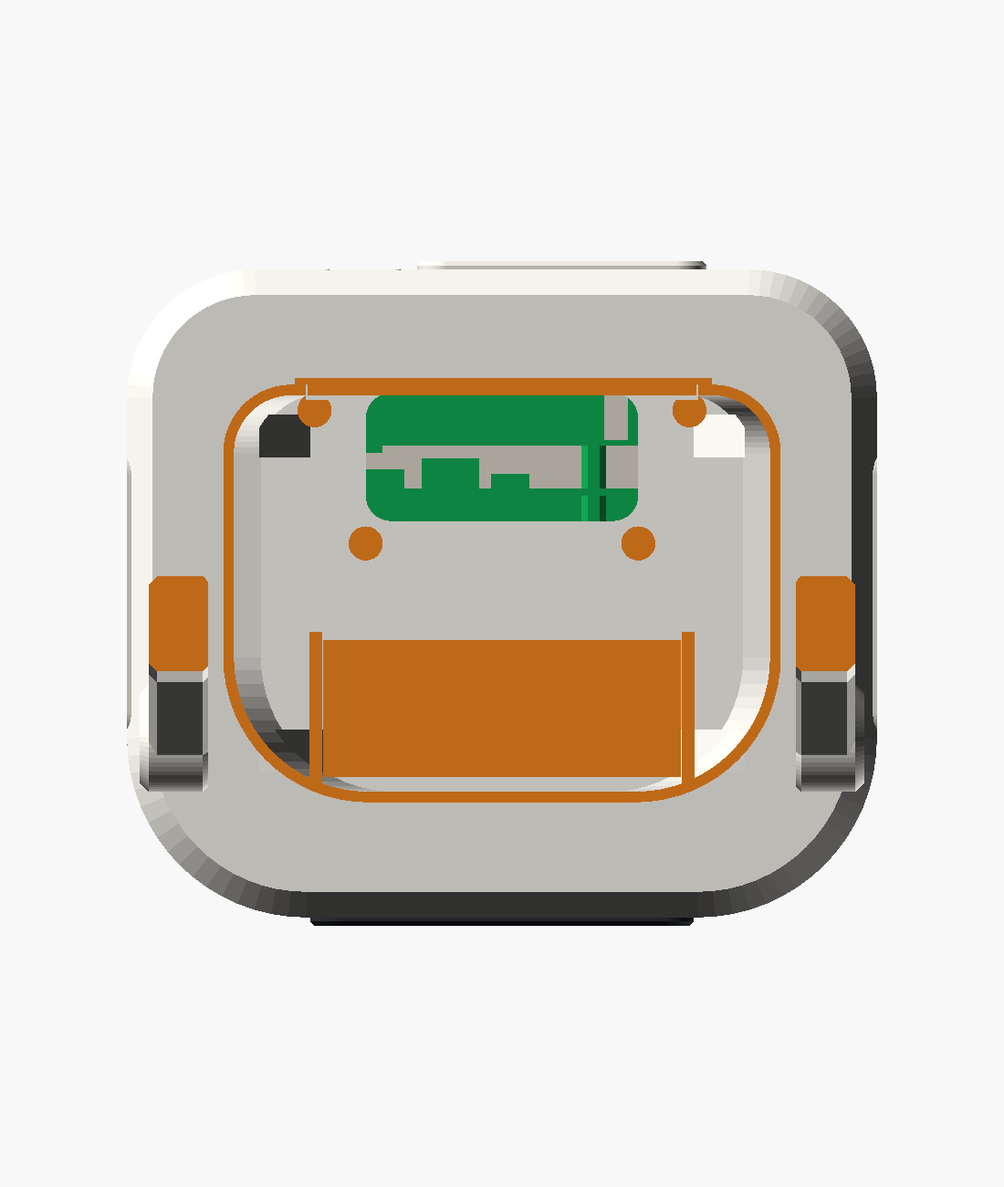
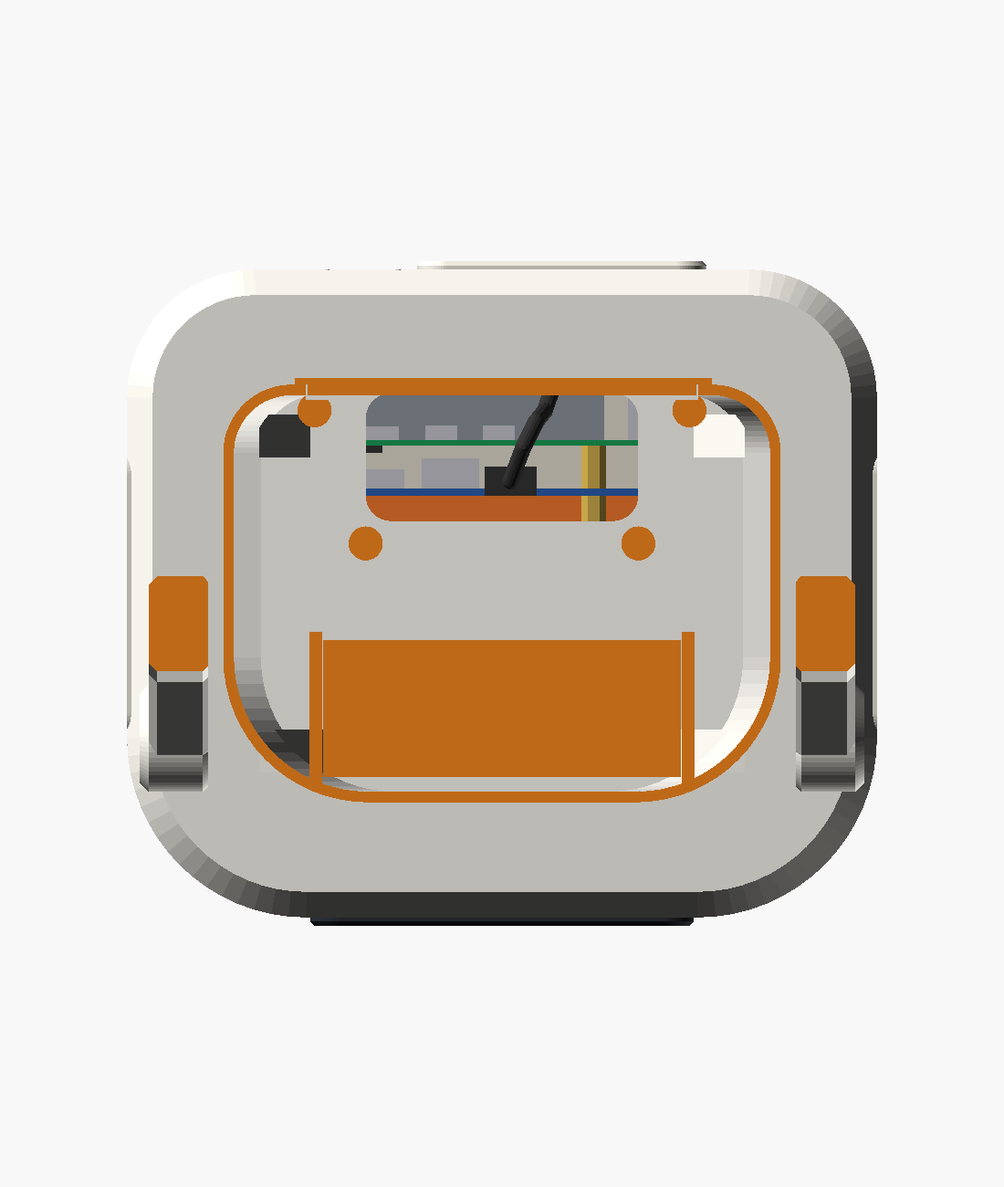
Enclosure v2: model the charging cable into the UPS HAT (E)'s USB-C
The charger reaches the UPS's USB-C (never the Pi's) through a USB-C
extension: plug in the UPS's port, cable up through the cable hole and
back down behind the cooler, socket held behind the rear plate's slot.
That path is now in the model and checked; no printed part changes.

- littlebot_v2.scad: charge_cable() (plug + routed cable) from
  charge_port() to the socket; stack parts coloured individually; new
  "charging" preview with labels for the UPS's and the Pi's USB-C
- checks.scad / run_checks.sh: charge_cable_clear (70 checks, all pass)
- images/charging.png (new); section and back/side views re-rendered
- assembly video: own step "Charging cable into the UPS" with on-screen
  labels for both USB-C ports
- README / POWER.md: which port, the extension to buy, assembly step

Claude-Session: https://claude.ai/code/session_016yvSTZP27xtsgsiUtZidog

Changed region(s): [[0.34, 0.3077, 0.6491, 0.4615]]

diff --git a/hardware/enclosure_v2/assembly_video/index.html b/hardware/enclosure_v2/assembly_video/index.html
@@ -12,11 +12,15 @@
   #title { color: #1d2430; font-size: 25px; font-weight: bold; margin-top: 3px; }
   #detail { color: #3b4452; font-size: 16px; line-height: 1.4; margin-top: 6px; }
   #bar { position: absolute; left: 0; bottom: 0; height: 5px; background: #c0632b; }
+  #labels, #lines { position: absolute; inset: 0; }
+  .lab { position: absolute; transform: translate(-50%, -100%); background: rgba(255,255,255,.95); border: 2.5px solid; border-radius: 10px;
+         padding: 5px 12px 6px; font-size: 17px; font-weight: bold; white-space: nowrap; box-shadow: 0 3px 12px rgba(30,40,60,.16); }
 </style></head>
 <body>
 <div id="bg"></div>
 <canvas id="c" width="1280" height="720"></canvas>
 <div id="brand"><b>LittleBot v2</b> &middot; how it goes together</div>
+<div id="labels"><svg id="lines" width="1280" height="720"></svg><div id="labs"></div></div>
 <div id="cap"><div id="num"></div><div id="title"></div><div id="detail"></div></div>
 <div id="bar"></div>
 <script>
@@ -70,7 +74,7 @@ async function loadAll() {
 
 // ---------- the story ----------
 const TORSO_G = ['torso','torso_back','coupler','ring_gear','pinion','servo_frame','head_servo','arm_servo_left','arm_servo_right','speaker','mic'];
-const FLOOR_G = ['base_floor','ups_plate','ups_cells','ups_board','ups_standoffs','pi','pi_ports','cooler','pca9685','usbc_socket'];
+const FLOOR_G = ['base_floor','ups_plate','ups_cells','ups_board','ups_standoffs','pi','pi_ports','cooler','pca9685','usbc_socket','charge_cable'];
 const HEAD_G = ['head','head_back','visor','ear_left','ear_right','camera_pod','camera_bracket','camera_board','screen_glass','screen_pcb','screen_clamp'];
 const ROBOT = { t: [0, 76, 190], az: -28, el: 16, d: 980 };
 // each step: parts it installs and where they come from (offset, mm); camera; see-through shells
@@ -91,13 +95,18 @@ const STEPS = [
   { title: 'Pi + UPS onto the mounting wall', detail: 'Pi and cooler onto the UPS as Waveshare shows, cells in V1\u2013V4 order. Swap the UPS\u2019s 4 bottom screws for M3 \u00d7 12 and screw it to the wall through the clear plate, ports up.',
     add: { ups_plate: [0, 90, 0], ups_cells: [0, 90, 0], ups_board: [0, 90, 0], ups_standoffs: [0, 90, 0], pi: [0, 90, 0], pi_ports: [0, 90, 0], cooler: [0, 90, 0] },
     view: { t: [0, 95, -85], az: 140, el: 28, d: 520 } },
-  { title: 'Servo board and charging socket', detail: 'PCA9685 onto its standoffs (4 \u00d7 M2.5 \u00d7 6). USB-C extension into the UPS, its socket zip-tied into the holder. Plug in the HDMI and screen-power cables and the jumpers.',
-    add: { pca9685: [0, 0, 60], usbc_socket: [0, 0, 60] }, view: { t: [0, 80, -90], az: -30, el: 38, d: 540 } },
+  { title: 'Servo board', detail: 'PCA9685 onto its standoffs (4 \u00d7 M2.5 \u00d7 6). Plug in the HDMI and screen-power cables and the jumper wires.',
+    add: { pca9685: [0, 0, 60] }, view: { t: [0, 80, -90], az: -30, el: 38, d: 540 } },
+  { title: 'Charging cable into the UPS', detail: 'USB-C extension: its plug goes into the UPS\u2019s USB-C (on the blue UPS board, beside the Pi\u2019s second HDMI port), not into the Pi\u2019s own USB-C. Zip-tie its socket into the holder at the back.',
+    add: { charge_cable: [0, 0, 70], usbc_socket: [0, 70, 0] }, dur: 6.0,
+    labels: [{ at: [2, 102.3, 72], text: 'UPS USB-C: charging \u2713', col: '#17803a', dx: -170, dy: -150 },
+             { at: [-28.8, 113.6, 64.9], text: 'Pi USB-C: leave empty \u2717', col: '#c0392b', dx: 150, dy: -110 }],
+    view: { t: [-8, 112, -64], az: 158, el: 34, d: 310 } },
   { title: 'Torso onto the base', detail: 'Feed the screen\u2019s cables up through the base\u2019s cable hole and the torso, then screw the torso on: 4 \u00d7 M3 \u00d7 10 from inside the base.',
     add: { base: [0, 0, -40] }, torsoDown: true, view: { t: [0, 76, 40], az: -30, el: 14, d: 940 } },
   { title: 'Floor into the base', detail: 'From below: 4 \u00d7 M3 \u00d7 12. Plug the camera, speaker and mic into the Pi\u2019s USB ports.',
     floorIn: true, see: { base: 0.22 }, view: { t: [0, 76, 25], az: -32, el: 6, d: 700 } },
-  { title: 'Side covers and plates', detail: 'Wheel-well covers (4 screws each), the light-bar plate at the front and the cable plate at the back (2 screws each): its slot lines up with the charging socket.',
+  { title: 'Side covers and plates', detail: 'Wheel-well covers (4 screws each), the light-bar plate at the front and the cable plate at the back (2 screws each). Its slot lines up with the charging socket: the charger plugs in there.',
     add: { well_cover_left: [-70, 0, 0], well_cover_right: [70, 0, 0], front_plate: [0, -70, 0], rear_plate: [0, 70, 0] }, view: { t: [0, 76, 40], az: -42, el: 18, d: 600 } },
   { title: 'Torso back cover', detail: 'Switch the UPS on first: it sits under the cable hole. Then 4 \u00d7 M3 \u00d7 12 countersunk.',
     add: { torso_back: [0, 80, 0] }, view: { t: [0, 100, 130], az: 145, el: 16, d: 640 } },
@@ -160,6 +169,8 @@ function render(t) {
   const capA = clamp(Math.min(u / 0.35, (s.dur - u) / 0.25));
   document.getElementById('cap').style.opacity = s.outro ? 1 : capA;
   document.getElementById('bar').style.width = (100 * t / TOTAL).toFixed(2) + '%';
+  const labA = s.labels ? clamp(Math.min((u - 2.0) / 0.4, (s.dur - 0.25 - u) / 0.25)) : 0;
+  document.getElementById('labels').style.opacity = labA;
   // camera
   const v = viewAt(i, u), az = v.az * Math.PI / 180, el = v.el * Math.PI / 180;
   const eye = V.add(v.t, V.mul([Math.sin(az) * Math.cos(el), -Math.cos(az) * Math.cos(el), Math.sin(el)], v.d));
@@ -170,6 +181,15 @@ function render(t) {
   gl.enable(gl.DEPTH_TEST); gl.disable(gl.CULL_FACE);
   gl.uniformMatrix4fv(uVP, false, VP); gl.uniform3fv(uEye, eye);
   const torsoOff = groupMove(i, u, TORSO_DOWN, TORSO_UP), headOff = groupMove(i, u, HEAD_DOWN, HEAD_UP), floorOff = groupMove(i, u, FLOOR_IN, FLOOR_OUT);
+  // labels pinned to points on the floor unit (they move with it), once the parts have arrived
+  let lines = '', labs = '';
+  if (labA > 0) for (const L of s.labels) {
+    const w = V.add(L.at, floorOff), c = [0, 1, 2, 3].map(r => VP[r] * w[0] + VP[4 + r] * w[1] + VP[8 + r] * w[2] + VP[12 + r]);
+    const x = (c[0] / c[3] + 1) * 640, y = (1 - c[1] / c[3]) * 360, lx = x + L.dx, ly = y + L.dy;
+    lines += `<line x1="${x}" y1="${y}" x2="${lx}" y2="${ly}" stroke="${L.col}" stroke-width="2.5"/><circle cx="${x}" cy="${y}" r="7" fill="none" stroke="${L.col}" stroke-width="3"/>`;
+    labs += `<div class="lab" style="left:${lx}px;top:${ly}px;border-color:${L.col};color:${L.col}">${L.text}</div>`;
+  }
+  document.getElementById('lines').innerHTML = lines; document.getElementById('labs').innerHTML = labs;
   const draws = [];
   for (const name in P) {
     let off = [0, 0, 0], alpha = 1, hi = 0;

diff --git a/hardware/enclosure_v2/assembly_video/place_parts.py b/hardware/enclosure_v2/assembly_video/place_parts.py
@@ -2,7 +2,7 @@
 for the electronics, all in robot coordinates (mm, z up, front of the base at y = 0). Transforms are the
 inverse of print_part() followed by assembly() from littlebot_v2.scad.
 
-The derived positions below are copied from littlebot_v2.scad (2026-10-29): if you change a dimension
+The derived positions below are copied from littlebot_v2.scad (2026-10-30): if you change a dimension
 there, update them too (OpenSCAD's echo() prints most of them)."""
 import json, sys
 from pathlib import Path
@@ -120,6 +120,29 @@ add("cooler", cat(pi_box(6.5, 64, 9, 49, 0, 3), pi_box(7, 27.5, 9, 49, 0, 12), p
 zf = floor_low + 2.4
 add("pca9685", box(-31.115, 31.115, 10, 35.4, zf + 4, zf + 4 + 12), "#2a8a2a", "floor")
 add("usbc_socket", box(14 - 6.5, 14 + 6.5, 152 - 2.6 - 0.5 - 18, 152 - 2.6 - 0.5, 36 - 3.5, 36 + 3.5), "#333333", "floor")
+# the charging cable (charge_cable in littlebot_v2.scad): a USB-C extension from the UPS's USB-C, up through the
+# cable hole and back down behind the cooler to its socket
+def frame(d):
+    d = d / np.linalg.norm(d); a = np.array([1.0, 0, 0]) if abs(d[0]) < 0.9 else np.array([0, 1.0, 0])
+    u = np.cross(d, a); u /= np.linalg.norm(u); return u, np.cross(d, u)
+def rod(a, b, r, n=12):            # open cylinder from a to b
+    a, b = np.asarray(a, float), np.asarray(b, float); u, v = frame(b - a); t = []
+    ring = [r * (np.cos(k * 2 * np.pi / n) * u + np.sin(k * 2 * np.pi / n) * v) for k in range(n + 1)]
+    for k in range(n): t += [[a + ring[k], a + ring[k + 1], b + ring[k + 1]], [a + ring[k], b + ring[k + 1], b + ring[k]]]
+    return np.array(t)
+def ball(c, r, n=10, m=6):
+    c = np.asarray(c, float); pt = lambda i, j: c + r * np.array([np.sin(np.pi * j / m) * np.cos(2 * np.pi * i / n), np.sin(np.pi * j / m) * np.sin(2 * np.pi * i / n), np.cos(np.pi * j / m)])
+    return np.array([tri for i in range(n) for j in range(m) for tri in ([pt(i, j), pt(i, j + 1), pt(i + 1, j + 1)], [pt(i, j), pt(i + 1, j + 1), pt(i + 1, j)])])
+charge_port = np.array([stk_x0 + 42, stk_y0 + stk_ups_w0 + 1.6 + 1.7, stk_ztop + 0.8])   # mouth of the UPS's USB-C
+sock_back = np.array([14, 152 - 2.6 - 0.5 - 18, 36])
+p, q = charge_port, sock_back
+path = [p + [0, 0, 24], p + [0, 0, 30], p + [3, 8, 35], p + [6, 14, 30], p + [8, 16.5, 20], p + [8, 16.5, 1],
+        [q[0] - 2, q[1] - 6.4, p[2] - 2.2], [q[0] - 1, q[1] - 3.4, p[2] - 8.2], [q[0] - 0.5, q[1] - 3.4, q[2] + 6],
+        [q[0], q[1] - 3.5, q[2] + 1.5], [q[0], q[1] - 2.3, q[2]]]
+add("charge_cable", cat(box(p[0] - 6.1, p[0] + 6.1, p[1] - 3.4, p[1] + 3.4, p[2], p[2] + 18),                 # male end in the UPS's USB-C
+                        xf(cyl(5.5, 6, 16), I, p + [0, 0, 18]),                                                 # strain relief
+                        *[rod(path[k], path[k + 1], 2) for k in range(len(path) - 1)], *[ball(c, 2) for c in path]),
+    "#2b2b2b", "floor")
 
 manifest = []
 for name, tris, colour, group in parts:

diff --git a/hardware/enclosure_v2/README.md b/hardware/enclosure_v2/README.md
@@ -22,9 +22,9 @@ The base also has room for the later phases: ESP32, TB6612FNG, TT gear motors + 
 |---|---|---|
 | ![side](images/side.png) | ![section](images/section_side.png) | ![plan](images/section_plan.png) |
 
-| The base from above (cut at z = 45 mm): PCA9685 at the front, the mounting wall, then the UPS (clear plate, cells, board) and the Pi with its cooler; the charging socket at the back |
-|---|
-| ![base](images/section_base.png) |
+| The base from above (cut at z = 45 mm): PCA9685 at the front, the mounting wall, then the UPS (clear plate, cells, board) and the Pi with its cooler; the charging socket at the back | Where the charger goes: the extension's plug in the **UPS's** USB-C (not the Pi's), its cable up through the cable hole and back down behind the cooler to the socket behind the rear plate's slot (base and torso hidden) |
+|---|---|
+| ![base](images/section_base.png) | ![charging](images/charging.png) |
 
 **Overall size:** 340 mm tall (about 35 cm, like the reference), base 176 × 152 mm, head 150 × 132 × 120 mm.
 - All parts fit a 220 × 220 × 250 mm bed.
@@ -39,7 +39,7 @@ v1 (`../enclosure/`) is smaller and simpler (212 mm, 11 parts). v2 is bigger, mo
 |---|---|
 | `littlebot_v2.scad` | the parametric model (all dimensions at the top) |
 | `stl/*.stl` | ready-to-slice parts, already in print orientation |
-| `checks.scad`, `run_checks.sh` | 69 automated interference and finger-pinch checks (head ±60°, arms −90…+100°) and a self-test that must find an overlap. A result with no volume (parts designed to touch) passes |
+| `checks.scad`, `run_checks.sh` | 70 automated interference and finger-pinch checks (head ±60°, arms −90…+100°) and a self-test that must find an overlap. A result with no volume (parts designed to touch) passes |
 | `build.sh`, `stl_tools.py` | rebuild the STLs and images. Report per part: size, watertight, number of separate bodies, bed fit, overhang area |
 | `assembly_video/` | `./make_video.sh` renders a video (about 2 minutes) of the assembly order below (every printed part in place, electronics as blocks): `assembly_video/build/LittleBot_assembly.mp4` |
 | `make_plates.py` → `plates/`, `pack_plates.py` → `plates_256/` | the parts grouped into print jobs: 9 for a 220 mm bed, 6 for a 256 mm bed (Bambu Lab) |
@@ -50,6 +50,7 @@ v1 (`../enclosure/`) is smaller and simpler (212 mm, 11 parts). v2 is bigger, mo
 - **`run_checks.sh`:** no part collides with any electronics dummy or other part.
   - The screen and what plugs into it (a right-angle HDMI plug, the micro-USB power plug, the touch wires) fit in the head without touching the head, the visor or the screen clamp (`screen_vs_head`).
   - The Pi + UPS stack and everything plugged into it (HDMI, USB-A and USB-C plugs up through the cable hole into the torso, a finger on the UPS switch, the Pi's USB plugs, the jumper plugs on the GPIO header), the PCA9685 and the charging socket fit the base, the new floor, the plates and the torso, and don't run into each other (`electronics_vs_base`, `ups_internal`). The stack's sizes are estimates from photos – see *Measure before you print*.
+  - The charging cable, from its plug in the UPS's USB-C up through the cable hole and back down behind the cooler to its socket, clears every part (`charge_cable_clear`).
   - The head turns ±60° (the servo's full range) without touching anything.
   - The arms move over −90…+100° without touching anything.
   - Over that arm range the arms stay **≥ 12 mm** from the head and the base.
@@ -159,7 +160,7 @@ Plates 01–03 were printed before the Pi and the UPS moved into the base (2026-
 | USB-A → micro-USB cable, 50 cm (a right-angle micro-USB plug helps) | 1 | the UPS's USB-A output → the screen's power socket |
 | male-to-female jumper wires, about 40 cm (e.g. three 20 cm wires joined, joints taped, kept out of the neck) | 6 (7) | touch: Pi pins 19, 21, 22, 23, 26 and ground (20) → the same pins in the screen's socket (and pin 1 → pin 1 if touch needs it) |
 | female-to-female jumper wires, 20 cm | 4 + 4 | Pi pins 1, 3, 5, 6 → PCA9685; the same pins → the UPS's battery-data header |
-| USB-C extension, male → female, 20–30 cm (socket end about 13 × 7 × 18 mm) | 1 | the UPS's USB-C → the holder behind the rear plate's slot: charge from the back. Zip-tie the socket into its holder |
+| USB-C extension, male → female, **20 cm** (15–30 cm works), rated 3 A / 60 W or more with USB-PD (e.g. one sold as "USB 3.1 / 100 W"); a straight, slim plug (moulding about 12 × 7 mm) and a socket end about 13 × 7 × 18 mm | 1 | **charging:** its plug goes into the **UPS's USB-C** (never the Pi's), its socket zip-ties into the holder behind the rear plate's slot, and the charger plugs in there (see *The Pi and the UPS in the base*) |
 | USB-A extension cable, male → female, 30–50 cm (socket end no bigger than about 18 × 9.5 mm) | 1 | Adafruit mini USB mic in the chest → Pi in the base |
 | **later:** 5.5 × 2.1 mm panel DC jack (8 mm hole) + mini toggle (6 mm hole) | 1 + 1 | separate 5 V servo supply ("SERVO 5V" on the back) |
 | **later:** 2 × 12-LED WS2812 rings (37 mm OD / 23 mm ID), ≤ 5 mm-wide addressable LED strip ~55 mm | | ears + light bar |
@@ -174,7 +175,7 @@ No longer needed since the Pi moved into the base: the micro-HDMI → HDMI "U" a
 | **Head** | **Screen:** the MPI3508 on its own (see *The screen in the head*). The glass sits in locating ribs on the back of the black visor, on 1 mm foam, HDMI socket pointing **down**; the **screen clamp** screws onto the visor's four posts and presses the screen's four PCB tabs forward, and its lower fingers hook under the lower tabs.<br>**Plugs:** a right-angle HDMI plug under the screen (its cable goes back, then down to the neck), the micro-USB power plug at the screen's wide-border end (viewer's left), the touch wires in socket pins 19–26.<br>**Ears:** LED-ring pockets; the wires go into the head through a hole under each ring.<br>**Back cap:** the 4 screws locate it.<br>**Camera:** in the top pod on a tilting bracket. Its cable drops into the head through a small hole, passes behind the screen clamp and goes down the neck to the Pi. |
 | **Neck** | Same geared turntable as v1. The head screws onto a coupler that turns on a hollow spigot (26 mm cable bore). A 36-tooth ring gear under the torso top is driven by a 24-tooth pinion in front of it, so the servo never carries the head and lifting by the head can't pull the shaft out. **Head = 0.67 × servo angle**: the servo's full range gives about ±60°, and all of it is collision-free. Up the bore: the HDMI cable, the screen's power cable, the touch wires and (down) the camera cable; leave slack for the head to turn. |
 | **Torso** | **Front:** speaker behind the pill-shaped chest grille (it matches the speaker's oval front, so both drivers are uncovered), in a cradle with zip-tie slots; the Adafruit mini USB mic lies flat in a sleeve behind the small holes (viewer's left), holes facing out, its plug pointing to the middle where the extension cable's socket plugs on.<br>**Top:** head servo on its frame, gear guard, one arm servo per side on a rib (spline through the side wall).<br>**Middle:** two columns support the top plate. Cables run between them: from the neck down to the base, and the speaker and mic cables down to the Pi. With the torso's back cover off, the UPS's switch is right below, in the cable hole. |
-| **Base** | **Pi + UPS** (see *The Pi and the UPS in the base*): on its side, hanging on the floor's mounting wall, its port edge up under the cable hole to the torso.<br>**Front:** PCA9685 on four M2.5 standoffs on the floor; sensor / light-bar plate.<br>**Rear:** the charging socket behind the rear plate's slot; the servo-supply jack + switch.<br>**Sides:** two wheel wells (covered for now).<br>**Air:** vent slots in the floor beside the cooler's exhaust; the cable hole lets warm air up into the torso and out of its back cover. |
+| **Base** | **Pi + UPS** (see *The Pi and the UPS in the base*): on its side, hanging on the floor's mounting wall, its port edge up under the cable hole to the torso.<br>**Front:** PCA9685 on four M2.5 standoffs on the floor; sensor / light-bar plate.<br>**Rear:** the charging socket behind the rear plate's slot (a USB-C extension from the UPS's USB-C); the servo-supply jack + switch.<br>**Sides:** two wheel wells (covered for now).<br>**Air:** vent slots in the floor beside the cooler's exhaust; the cable hole lets warm air up into the torso and out of its back cover. |
 
 All openings for sound, the mic and cooling are 3 mm or smaller. The camera aperture stays 17 mm with the lens right behind it. The cable slot is 16 × 8 mm, in a 4.6 mm plate.
 
@@ -196,7 +197,12 @@ The Pi 5 sits on the Waveshare UPS HAT (E) as Waveshare intends (its pogo pins p
 - **The Pi's USB-A / Ethernet end** points to the robot's left (+x); the camera, speaker and mic plug in there.
 - **The GPIO header** is on the lower edge: 20 cm female-to-female jumpers to the PCA9685 (front of the floor) and the UPS's battery-data header, and the touch wires, which go up through the cable hole.
 - **The floor sits lower** than before (3 mm above the table, inside the skirt) to make room for the stack on its side: about 64 mm between the floor and the base's top.
-- **Charging:** a short USB-C extension runs from the UPS's USB-C to a holder behind the rear plate's slot. Charge from the back; never through the Pi's own USB-C.
+- **Charging** goes into the **UPS's USB-C**, never the Pi's own USB-C, which stays empty. A 20 cm USB-C extension brings it to the back of the robot:
+  - **Its plug** goes into the UPS's USB-C: on the UPS board (the blue board between the cells and the Pi), beside the Pi's second micro-HDMI port, about 42 mm from the SD-card end. The Pi's own USB-C is on the Pi itself, in the corner by the SD card: leave it empty.
+  - **Its cable** goes up through the cable hole, turns over and comes back down behind the cooler: about 11 cm from plug to socket.
+  - **Its socket** zip-ties into the holder on the floor, right behind the rear plate's 16 × 8 mm slot. **The charger plugs in there**, from the back.
+  - Why not a hole straight onto the UPS's port: it sits on the edge that has to face up into the torso (the HDMI and screen-power cables plug in right beside it), so no outside wall is anywhere near it. With the extension, no printed part has to change.
+  - `images/charging.png` and step 9 of the video show it; `charge_cable_clear` checks the cable's path.
 - **The switch** is under the cable hole: take the torso's back cover off to reach it. Leaving it on and shutting down from the dashboard is the plan (software to come).
 - **Only the photos tell the stack's size so far:** check the *MEASURE* values below before printing the floor.
 
@@ -223,7 +229,8 @@ Plates 01–03 were already printed and are unchanged (the build checks every pa
 - **New floor** (`base_floor`, plate 04): lower, with the mounting wall, the PCA9685 standoffs (the shelf is no longer used), the charging-socket holder and vents.
 - **New screen clamp** (`screen_clamp`, plate 04) instead of the Pi carrier, with hooks so the screen can't slide down.
 - **Visor** (plate 05): two posts moved, clear of the micro-USB plug and the clamp's upper-right finger.
-- **Checks:** the head and base checks now cover the screen with its cables and the stack with its plugs (69 checks). `run_checks.sh` counts a zero-volume result (parts that only touch) as a pass, as it always meant to; newer OpenSCAD reports those touches as facets.
+- **Checks:** the head and base checks now cover the screen with its cables and the stack with its plugs (69 checks, 70 with the charging cable below). `run_checks.sh` counts a zero-volume result (parts that only touch) as a pass, as it always meant to; newer OpenSCAD reports those touches as facets.
+- **Charging cable** (later the same day; no printed part changed): the USB-C extension is now in the model, from its plug in the UPS's USB-C to its socket behind the rear plate's slot. It is checked against every part (`charge_cable_clear`), drawn in `images/charging.png` with the UPS's and the Pi's USB-C labelled, and has its own step in the video.
 
 ## What changed (2026-10-23)
 
@@ -251,6 +258,7 @@ These values come from drawings, listings or estimates. Check each with calipers
 | **`ups_ports`** | 12.5 / 28 / 42 | the UPS's switch, USB-A and USB-C: centre, measured from the Pi's microSD-card end. They must sit inside the cable hole (`stk_x0` moves the whole stack) |
 | `cooler_h` | 12.0 | Cooler fitted: height from the Pi PCB to the top of the fan housing / fins |
 | `usbc_sock` | 13 × 7 × 18 | the female end of your USB-C extension (width, height, length) |
+| `charge_plug` | 12.2 × 6.8 × 18 | your USB-C extension's plug moulding (width, thickness, length). It sits 14 mm from the screen-power cable's USB-A plug, so keep both slim |
 | `pi_pcb_t` | 1.4 | Pi PCB thickness at an edge (the drawing shows 1.4; some boards are 1.6) |
 | `cam_hole_sp` | 26…28.5 | Centre-to-centre of the camera board's M2 holes (measure edge-to-edge of two holes + one hole diameter). The bracket slots cover 26–28.5 |
 | `cam_board_y` | 26 | lens length: board front to the front of the lens, after focusing (the lens screws in and out) |
@@ -290,13 +298,13 @@ Then commit to the long prints: head, torso and base.
    1. Pi + Active Cooler onto the UPS as Waveshare shows; cells in, in the V1–V2–V3–V4 order.
    2. Swap the UPS's four bottom screws for M3 × 12 and screw the stack to the mounting wall through the wall and the clear plate (port edge up, the Pi's USB end to the left as seen from the front).
    3. PCA9685 onto its standoffs (4 × M2.5 × 6); jumpers from Pi pins 1, 3, 5, 6 to the PCA9685 and to the UPS's battery-data header.
-   4. USB-C extension: plug into the UPS's USB-C, zip-tie the socket end into the holder.
+   4. **Charging cable:** plug the USB-C extension into the **UPS's** USB-C (on the blue UPS board, beside the Pi's second micro-HDMI port), **not** the Pi's own USB-C (on the Pi, in the corner by the SD card). Zip-tie its socket into the holder, opening to the back. Leave the cable standing up in a loop above the plug: it goes up through the cable hole with the other cables.
    5. Plug the micro-HDMI cable, the screen's power cable (UPS USB-A) and the 6 touch wires (Pi header) in; they'll go up through the cable hole.
 6. **Torso onto the base:**
    1. Feed the HDMI cable, the screen's power cable and the touch wires up through the base's cable hole, the torso and the neck bore; the speaker, mic and (from the head) camera cables come down the same way.
    2. Fix the torso with 4 × M3 × 10 from inside the base, up into the torso's corner wedges.
    3. Fit the **floor** (4 × M3 × 12 from below) and plug the camera, speaker and mic into the Pi's USB ports.
-   4. Push in the **well covers** from outside (4 screws each) and fit the **front and rear plates** (2 screws each; the rear plate's slot lines up with the charging socket).
+   4. Push in the **well covers** from outside (4 screws each) and fit the **front and rear plates** (2 screws each; the rear plate's slot lines up with the charging socket). Plug the charger into the slot once to check that it goes all the way in and the UPS charges.
    5. Check the UPS switch is on, then close the torso back cover (4 × M3 × 12 countersunk).
 7. **Head:**
    1. Stick 1 mm foam tape around the window on the back of the visor and screw the visor into the face seat (4 × M2.5 × 6 from inside).

diff --git a/docs/POWER.md b/docs/POWER.md
@@ -198,7 +198,9 @@ receives SIGTERM from systemd); holding it down forces power off - emergencies o
 
 > **Changed 2026-10-30:** the v2 enclosure now holds a **Waveshare UPS HAT (E)** (4 × 21700 cells)
 > in the base, with the Pi screwed onto it and powered through its pogo pins (5 V, 6 A
-> recommended). Charge through the **UPS's** USB-C (up to 40 W PD), never the Pi's. Section 8.1
+> recommended). Charge through the **UPS's** USB-C (up to 40 W PD), never the Pi's: in the robot,
+> a USB-C extension runs from the UPS's USB-C to the socket behind the base's rear slot, and the
+> charger plugs in there (`hardware/enclosure_v2/README.md`, *The Pi and the UPS in the base*). Section 8.1
 > (`PSU_MAX_CURRENT=5000`) applies to it as well: Waveshare's own instructions say the same.
 > The UPS reports its battery over I2C (address 0x2D, pins 3/5); LittleBot doesn't read it yet,
 > so the battery card stays empty until that reader is written. The 2S pack + RP2040-Zero

diff --git a/hardware/README.md b/hardware/README.md
@@ -15,7 +15,7 @@ Two complete designs. Both are parametric OpenSCAD models with ready-to-slice ST
 | Neck | geared turntable, head = 0.67 × servo | same |
 | Body | camera in the chest, speaker + PCA9685 on the floor plate | speaker + mic in the chest; Pi on its UPS battery, PCA9685, wheel wells, sensor/light-bar plate in the base |
 | Future phases | servo supply jack | wheels (TT motors), casters, HC-SR04, ESP32 + TB6612FNG, LED strips |
-| Checks | 48 | 69 (incl. 12 mm finger-pinch clearance for the arms) |
+| Checks | 48 | 70 (incl. 12 mm finger-pinch clearance for the arms, and the charging cable's path) |
 
 v1 is quicker to print and smaller. v2 is the more "toy-like" character and is ready for driving around later.
 
